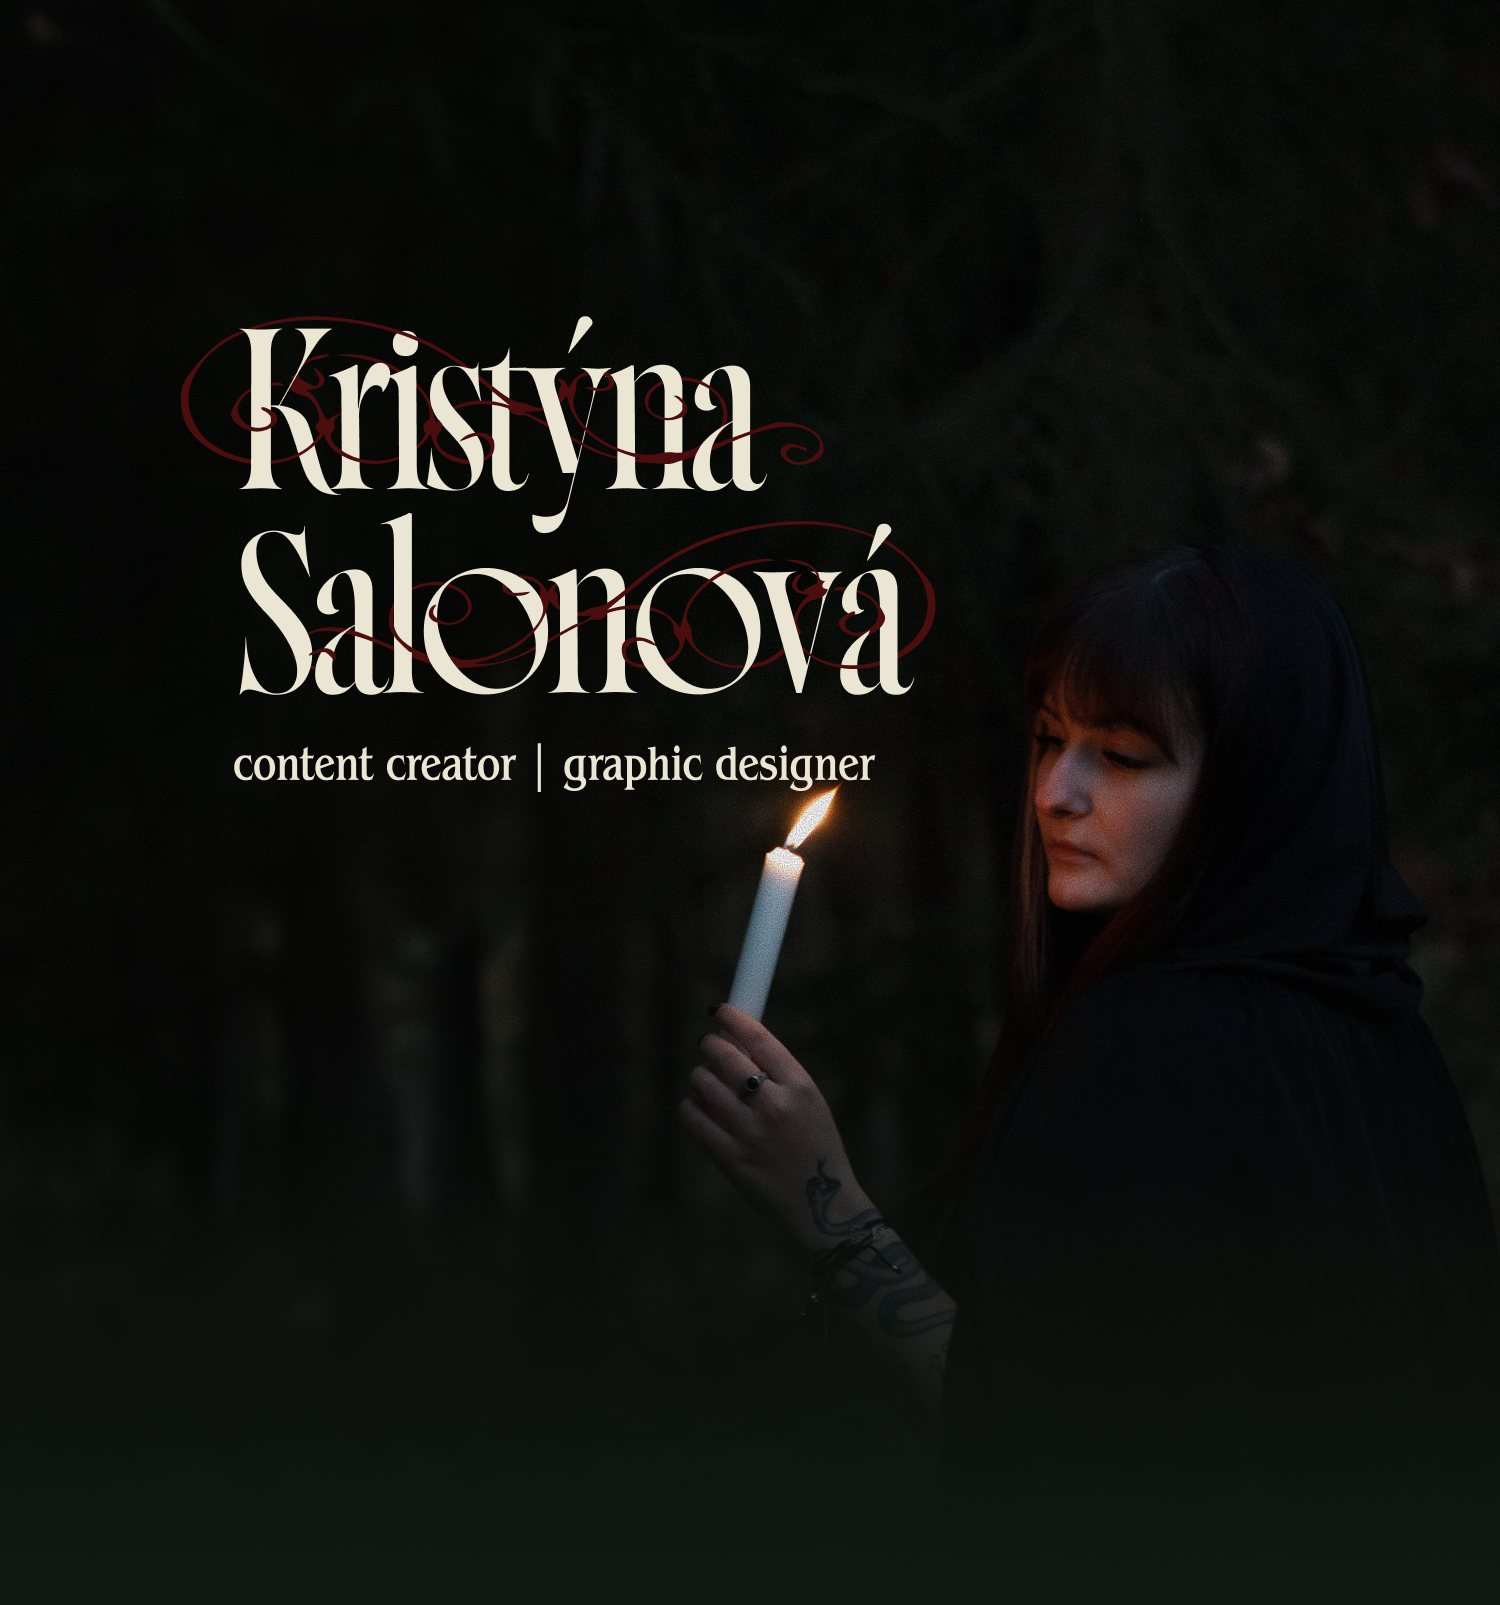
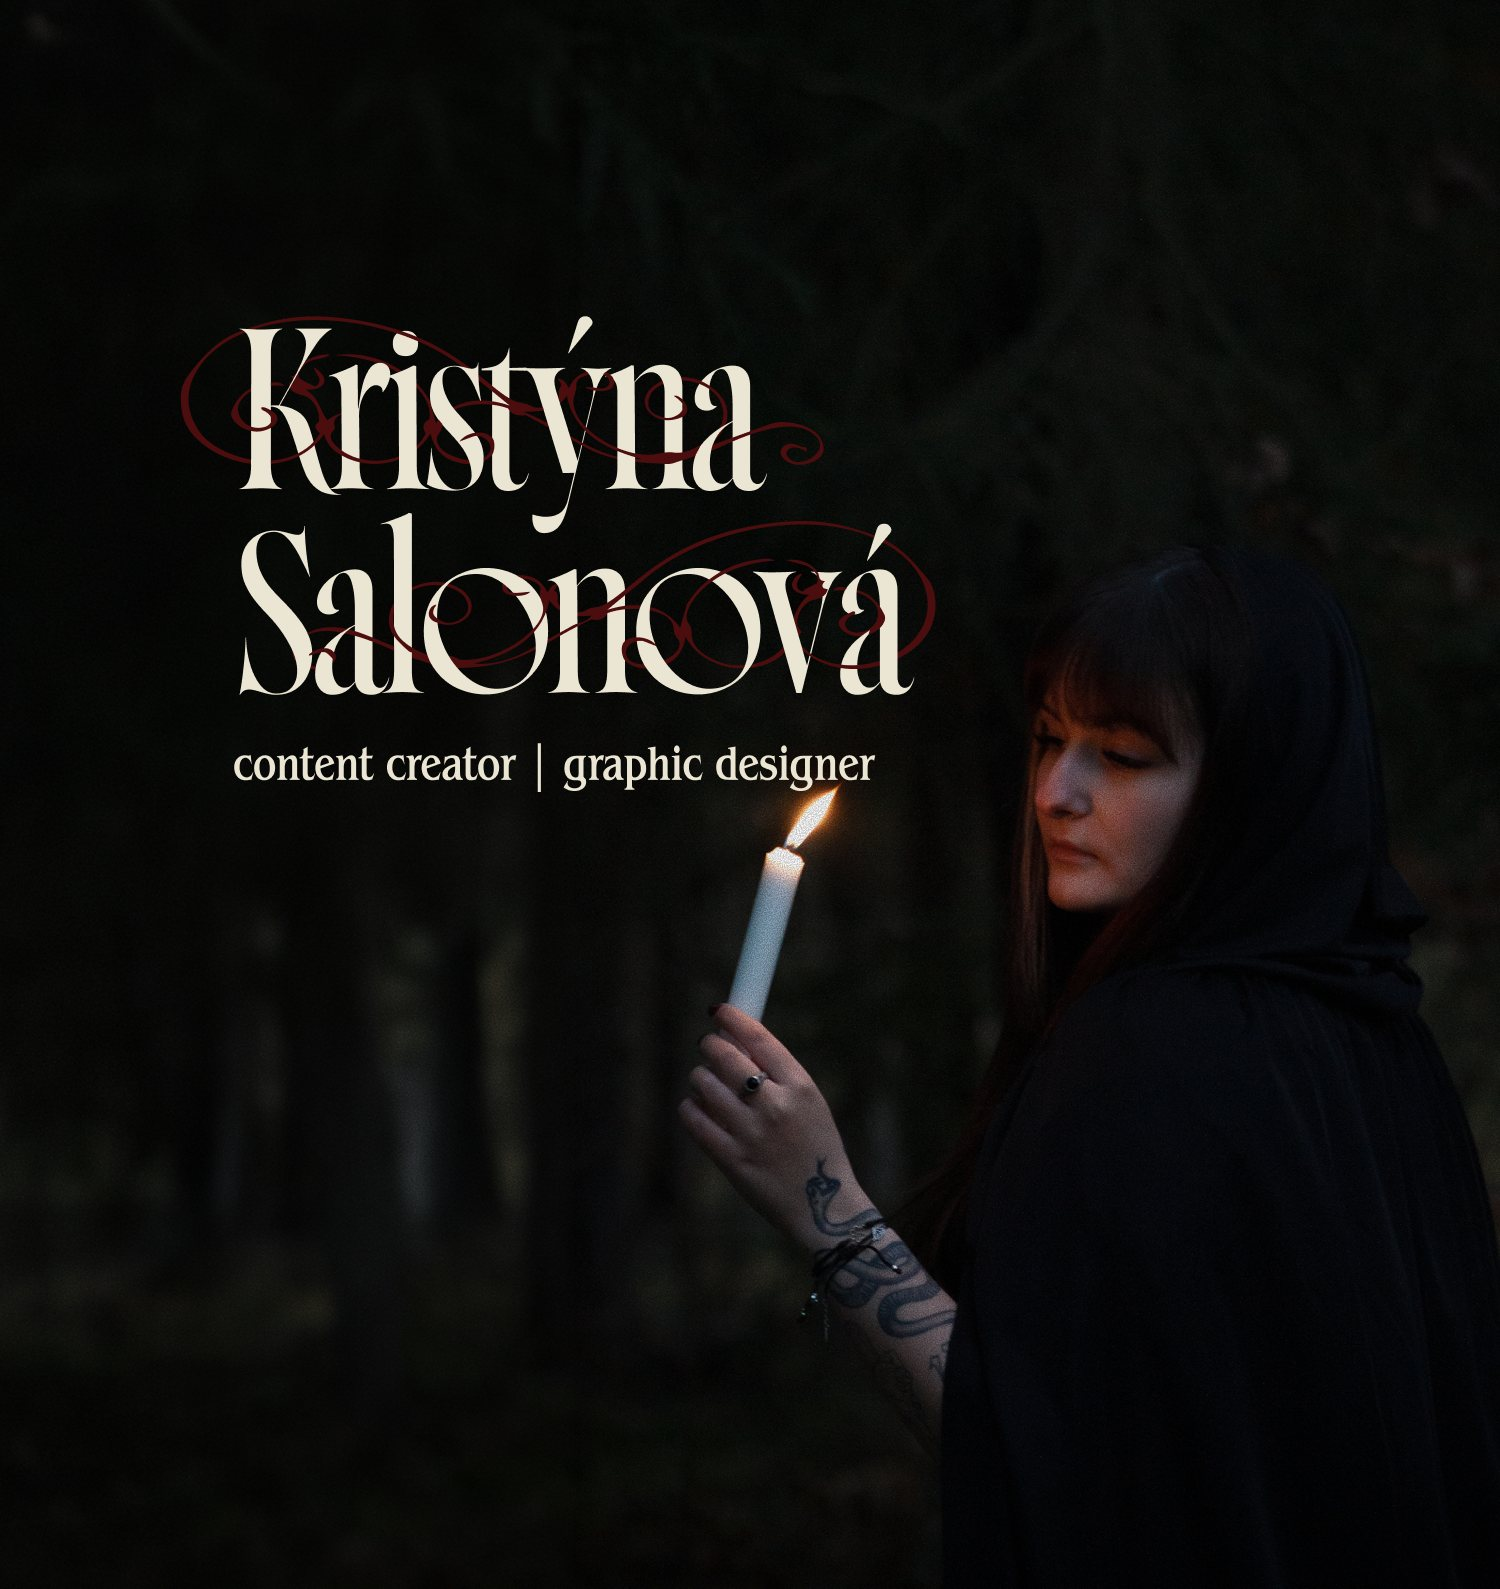
update hero sekce

Changed region(s): [[0.1227, 0.185, 0.644, 0.8943], [0.6747, 0.4317, 0.7973, 0.5859], [0.1227, 0.2159, 0.1533, 0.2467]]

diff --git a/css/style.css b/css/style.css
@@ -124,9 +124,18 @@ nav a:hover { opacity: 0.7; }
 .hero { position: relative; }
 .hero picture { display: block; line-height: 0; }
 .hero img.hero-bg { width: 100%; height: auto; display: block; }
+.hero::after {
+  content: '';
+  position: absolute;
+  inset: 0;
+  z-index: 1;
+  pointer-events: none;
+  background: linear-gradient(to bottom, transparent 55%, var(--dark) 100%);
+}
 .hero-sub {
   position: absolute;
   right: 15%; top: 43%;
+  z-index: 2;
   color: var(--cream);
   font-family: 'itc-benguiat-condensed', serif;
   font-size: 29px;
@@ -418,11 +427,11 @@ footer { background: var(--red); border-radius: 22px 22px 0 0; padding: 3.5rem 5
   footer { padding: 2.5rem 2rem 1.2rem; }
   .footer-top { grid-template-columns: 1fr; gap: 2rem; }
   .footer-nav { flex-direction: column; align-items: flex-start; gap: 1.6rem; }
-  .project-nav, .project-hero, .project-content, .figma-window-wrap, .videos-row, .dashboard-section, .pdf-row, .project-pagination, .figma-link-wrap { padding-left: 2rem; padding-right: 2rem; }
+  .project-nav, .project-hero, .project-content, .project-content.no-side, .figma-window-wrap, .videos-row, .dashboard-section, .pdf-row, .project-pagination, .figma-link-wrap { padding-left: 2rem; padding-right: 2rem; }
   .project-hero { flex-direction: column; align-items: flex-start; }
   .project-info-box { width: 100%; }
   .project-info-value { white-space: normal; }
-  .project-content, .project-content.project-sprava-profilu { grid-template-columns: 1fr; }
+  .project-content, .project-content.project-sprava-profilu, .project-content.no-side { grid-template-columns: 1fr; }
   .videos-row, .dashboard-row, .pdf-row { grid-template-columns: 1fr; }
   .video-box.featured { max-width: 100%; margin: 0; }
   .figma-window { height: 480px; }
@@ -437,8 +446,7 @@ footer { background: var(--red); border-radius: 22px 22px 0 0; padding: 3.5rem 5
   .about-box { align-items: flex-start; }
   .about-title, .about-text { text-align: left; }
   .about-photo { width: 140px; }
-  .project-nav, .project-hero, .project-content, .figma-window-wrap, .videos-row, .dashboard-section, .pdf-row, .project-pagination, .figma-link-wrap { padding-left: 1.25rem; padding-right: 1.25rem; }
+  .project-nav, .project-hero, .project-content, .project-content.no-side, .figma-window-wrap, .videos-row, .dashboard-section, .pdf-row, .project-pagination, .figma-link-wrap { padding-left: 1.25rem; padding-right: 1.25rem; }
   .project-info-box { grid-template-columns: 1fr; }
   .figma-window { height: 340px; }
-  .project-pagination { flex-direction: column; gap: 1rem; align-items: flex-start; }
 }
